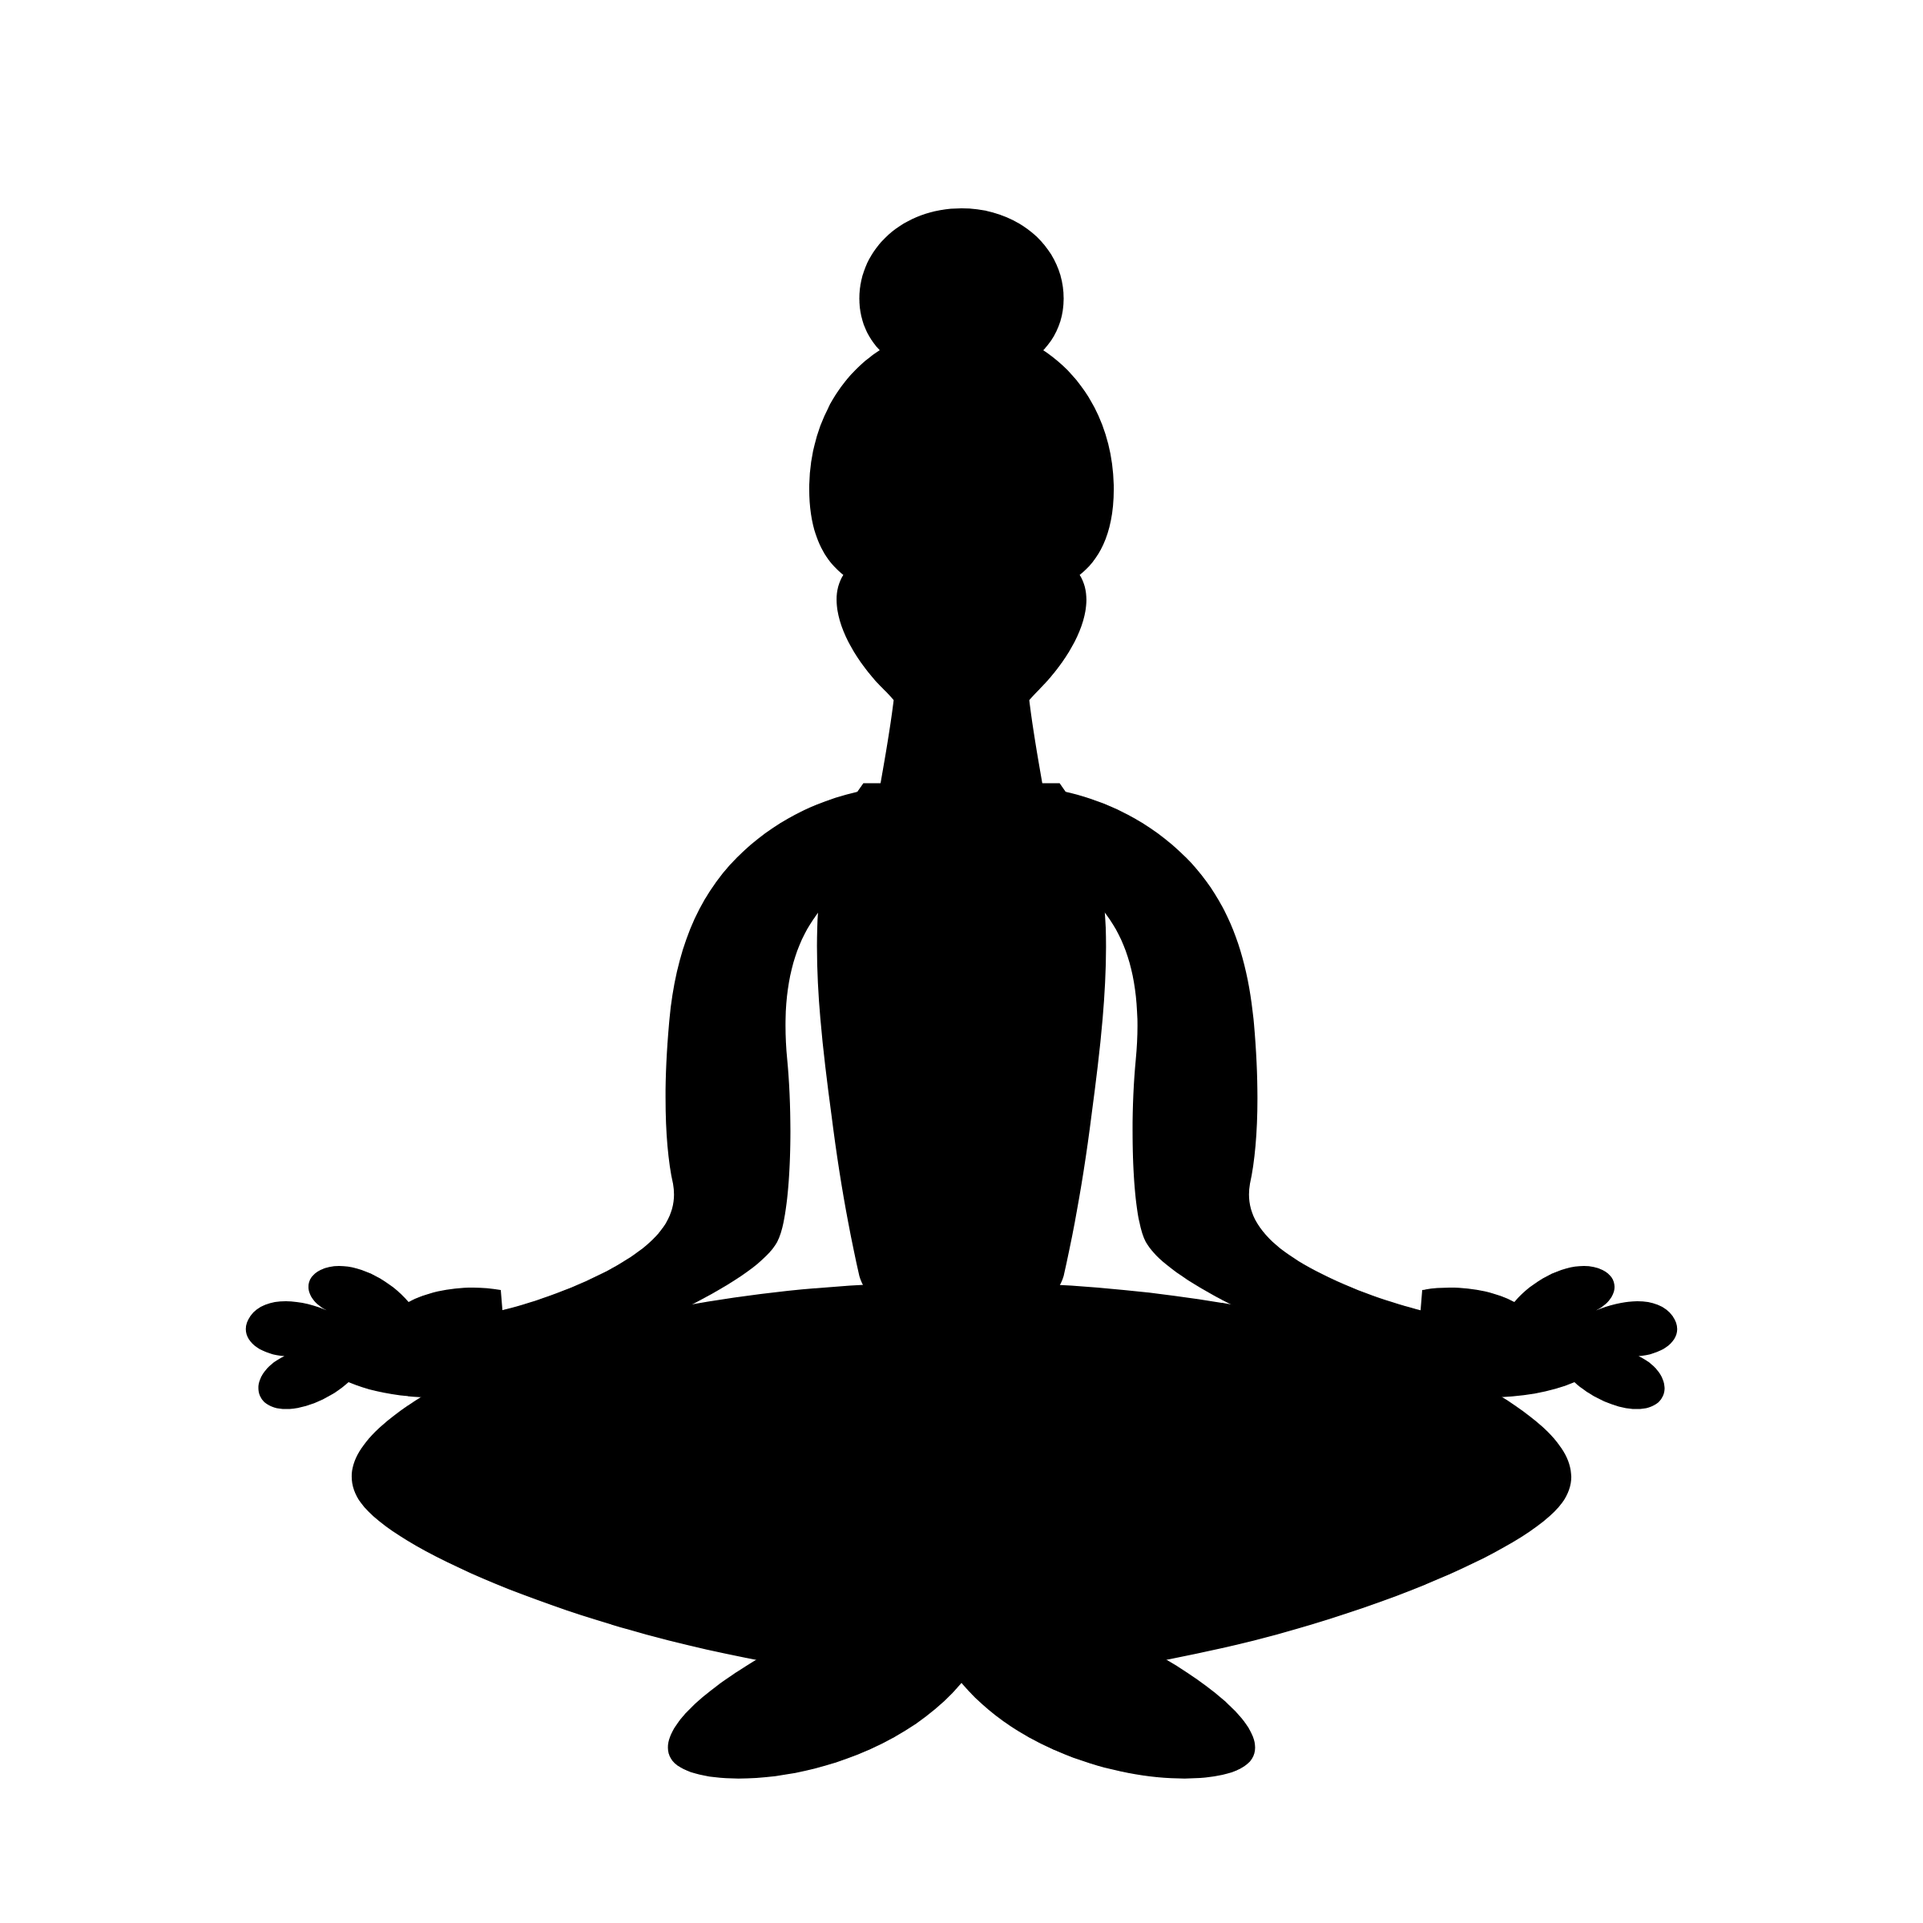
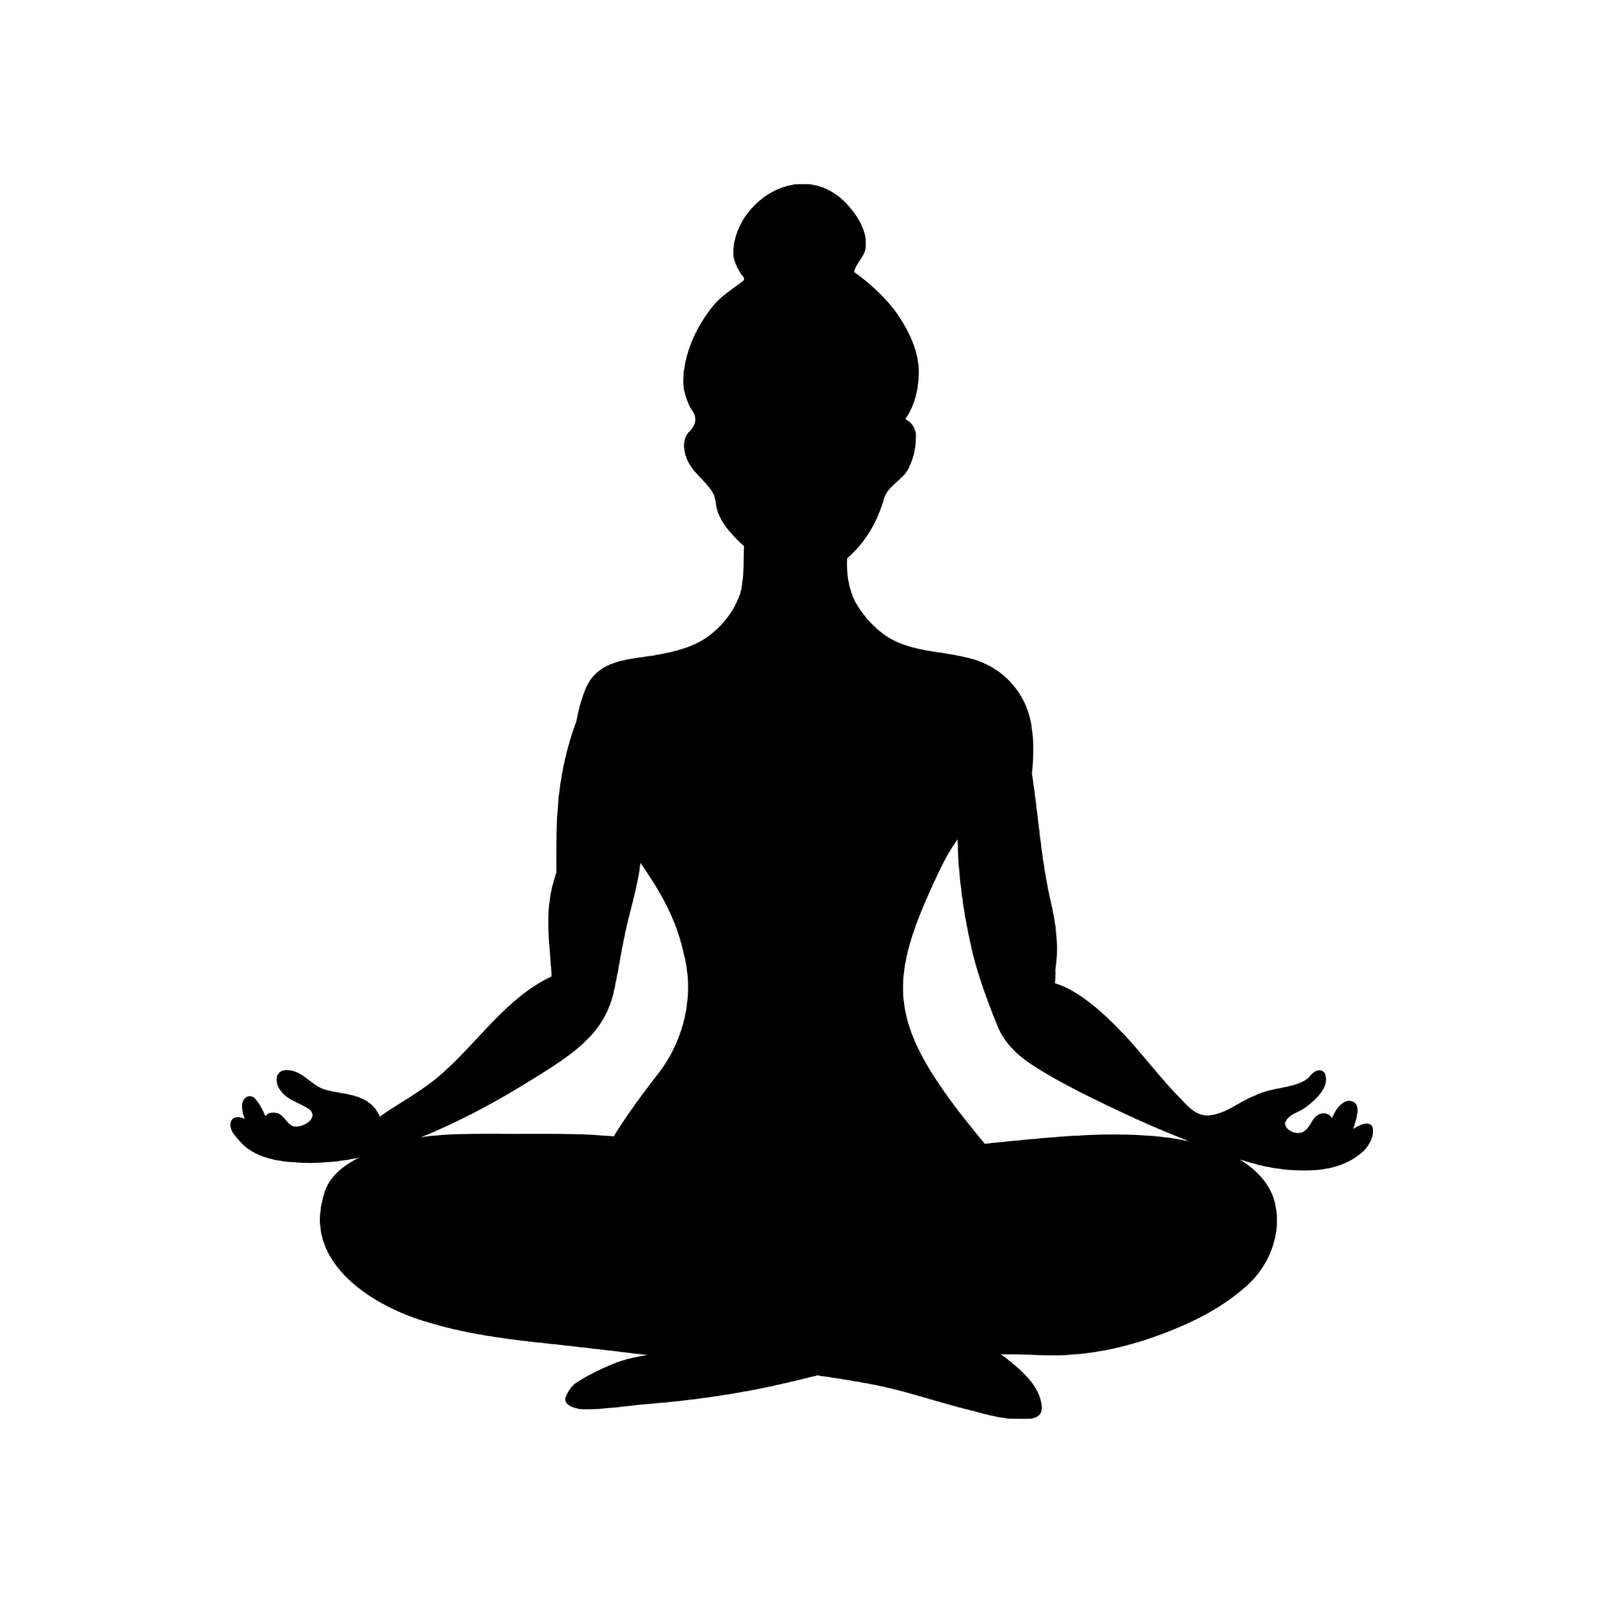
Use the supplied silhouette artwork in all four compositions
The attached PNG never reached the uploads directory, so the first pass shipped
a vector recreation traced from the reference. The original was recoverable from
the session transcript, where it was stored as a base64 image block; that file
is now public/figure.png and all four compositions render from it.

The real artwork is 2000x2000 RGBA and is *already transparent*, not the opaque
black-on-white the brief described. That distinction is load-bearing: keying a
transparent PNG by luminance reads its cleared background as (0,0,0,0), decides
black means "solid", and fills the entire frame. lib/figure.ts now inspects the
source and takes one of two paths — keep the existing alpha and force the colour
to pure black, or key from luminance as before for genuinely black-on-white
artwork. Both still crop to the bounding box and memoise at module level.

The seven chakra anchors were re-measured against the real proportions rather
than guessed, by profiling the width of the silhouette's central run row by row:
the neck is its narrowest point at t=0.312, the shoulders are where it jumps
from 303 to 476 px at t=0.39, the waist is the local minimum at t=0.649, and the
seat begins where it leaps to full width at t=0.779.

The vector recreation (public/figure.svg) is removed, and the README now
documents both keying paths and what to re-check when swapping the silhouette.

Claude-Session: https://claude.ai/code/session_01UkM6yZRirvDqauMSXEfTfQ

diff --git a/meditation-cosmos/src/lib/figure.ts b/meditation-cosmos/src/lib/figure.ts
@@ -1,11 +1,20 @@
 /**
- * The supplied silhouette is black artwork on an opaque *white* background, so
- * it has to be keyed to alpha before it can be laid over a nebula.
+ * Prepares the supplied silhouette for compositing over a nebula.
  *
- * The key runs exactly once per renderer thread: the result is memoised at
- * module level and shared by all four compositions. Re-keying per frame (or per
- * composition) would repeat a full-resolution `getImageData` pass 2520 times for
- * no benefit.
+ * Two kinds of artwork are handled, decided by inspecting the file rather than
+ * by assumption:
+ *
+ *   - Artwork that already carries an alpha channel keeps its own alpha, and
+ *     only has its colour forced to pure black.
+ *   - Artwork that is opaque black-on-white is keyed to alpha from luminance.
+ *
+ * The distinction matters: keying a transparent PNG by luminance would read its
+ * cleared background as (0,0,0,0), decide that black meant "solid", and fill
+ * the whole frame.
+ *
+ * Either way the key runs exactly once per renderer thread — the result is
+ * memoised at module level and shared by all four compositions, rather than
+ * repeating a full-resolution `getImageData` pass on all 2520 frames.
  */
 import { continueRender, delayRender, staticFile } from 'remotion';
 import { useEffect, useState } from 'react';
@@ -25,9 +34,14 @@ export type KeyedFigure = {
  * the range between the two ramps linearly. The ramp is deliberately wide and
  * near-linear: the anti-aliased pixels along the fingers and the topknot are
  * mid-greys, and a hard threshold would chew them off.
+ *
+ * Only used for opaque black-on-white artwork.
  */
 const CLEAR = 0.97;
 const SOLID = 0.03;
+
+/** How many soft/clear pixels it takes to call a source "already keyed". */
+const ALPHA_EVIDENCE = 64;
 
 let cache: KeyedFigure | null = null;
 let pending: Promise<KeyedFigure> | null = null;
@@ -45,6 +59,14 @@ const key = (img: HTMLImageElement): KeyedFigure => {
   const image = sctx.getImageData(0, 0, w, h);
   const p = image.data;
 
+  // Does this artwork already carry an alpha channel? A handful of stray soft
+  // pixels could be JPEG-ish noise, so require real evidence before trusting it.
+  let soft = 0;
+  for (let i = 3; i < p.length; i += 4) {
+    if (p[i] < 250 && ++soft > ALPHA_EVIDENCE) break;
+  }
+  const alreadyKeyed = soft > ALPHA_EVIDENCE;
+
   // Key to alpha and track the silhouette's bounding box in the same pass.
   let minX = w;
   let minY = h;
@@ -54,8 +76,15 @@ const key = (img: HTMLImageElement): KeyedFigure => {
   for (let y = 0; y < h; y++) {
     for (let x = 0; x < w; x++) {
       const i = (y * w + x) * 4;
-      const lum = (p[i] * 0.2126 + p[i + 1] * 0.7152 + p[i + 2] * 0.0722) / 255;
-      const a = clamp((CLEAR - lum) / (CLEAR - SOLID));
+      let a: number;
+      if (alreadyKeyed) {
+        a = p[i + 3] / 255;
+      } else {
+        const lum = (p[i] * 0.2126 + p[i + 1] * 0.7152 + p[i + 2] * 0.0722) / 255;
+        a = clamp((CLEAR - lum) / (CLEAR - SOLID));
+      }
+      // Pure black either way — no interior detail, no colour fringing carried
+      // over from the source's anti-aliasing.
       p[i] = 0;
       p[i + 1] = 0;
       p[i + 2] = 0;
@@ -127,15 +156,20 @@ export const useFigure = (): KeyedFigure | null => {
 
 /**
  * Anchor points down the figure's centreline, as fractions of the cropped
- * silhouette's height (0 = crown of the topknot, 1 = underside of the feet).
- * Measured off the artwork; used by the chakra composition.
+ * silhouette's height (0 = top of the topknot, 1 = underside of the feet).
+ *
+ * Measured off the supplied artwork by profiling the width of the silhouette's
+ * central run row by row, rather than by eye: the neck is its narrowest point
+ * (t=0.312), the shoulders are where it jumps from 303 to 476 px (t=0.39), the
+ * waist is the local minimum below the ribs (t=0.649), and the seat begins
+ * where it leaps to full width (t=0.779).
  */
 export const CENTRELINE = {
-  crown: 0.014,
-  brow: 0.224,
-  throat: 0.357,
-  heart: 0.503,
-  solar: 0.579,
-  sacral: 0.656,
-  root: 0.738,
+  crown: 0.03,
+  brow: 0.265,
+  throat: 0.345,
+  heart: 0.495,
+  solar: 0.59,
+  sacral: 0.69,
+  root: 0.775,
 } as const;

diff --git a/meditation-cosmos/README.md b/meditation-cosmos/README.md
@@ -68,17 +68,37 @@ src/
                             <MeditationFigure>, <Bloom>, <Grain>, <Vignette>
   compositions/             Hilltop, Orb, Chakra, Vortex
 public/
-  figure.png                the lotus silhouette (black on white)
-  figure.svg                the vector it was rasterised from
+  figure.png                the supplied lotus silhouette (2000x2000 RGBA)
 ```
 
-**The silhouette is black on an opaque white background, not transparent.**
-`lib/figure.ts` keys it to alpha through a soft luminance ramp — wide and
-near-linear, so the anti-aliased pixels along the fingers and the topknot
-survive instead of being chewed off by a hard threshold. The result is cropped
-to its bounding box and memoised at module level, so the key runs once per
-renderer thread and is shared by all four compositions rather than repeating a
-full-resolution `getImageData` pass on all 2520 frames.
+**The silhouette.** `lib/figure.ts` prepares the artwork once and shares it
+across all four compositions. It handles two kinds of source, deciding by
+inspecting the file rather than by assumption:
+
+- artwork that already carries an alpha channel — which the supplied
+  `figure.png` does — keeps its own alpha and only has its colour forced to
+  pure black;
+- artwork that is opaque black-on-white is keyed to alpha from luminance,
+  through a ramp wide and near-linear enough that the anti-aliased pixels along
+  the fingers and the topknot survive instead of being chewed off by a hard
+  threshold.
+
+The distinction is not cosmetic: keying a transparent PNG by luminance would
+read its cleared background as `(0,0,0,0)`, decide black meant "solid", and fill
+the whole frame.
+
+The result is cropped to its bounding box and memoised at module level, so the
+work runs once per renderer thread rather than repeating a full-resolution
+`getImageData` pass on all 2520 frames.
+
+**Swapping the silhouette.** Drop a replacement in over `public/figure.png` and
+everything else follows: the crop, the aspect ratio and the layout all derive
+from the image's own bounding box, not from hard-coded pixel positions. The one
+thing to re-check is `CENTRELINE` in `lib/figure.ts` — the seven chakra anchors,
+as fractions of the cropped height. They were measured off this artwork by
+profiling the width of the silhouette's central run row by row (the neck is its
+narrowest point, the shoulders are where it jumps, the seat is where it leaps to
+full width), so a differently proportioned figure needs them re-measured.
 
 **Looping.** Every animated quantity is a pure function of `useCurrentFrame()`
 that is periodic over its composition's `durationInFrames`. The nebulae loop by
